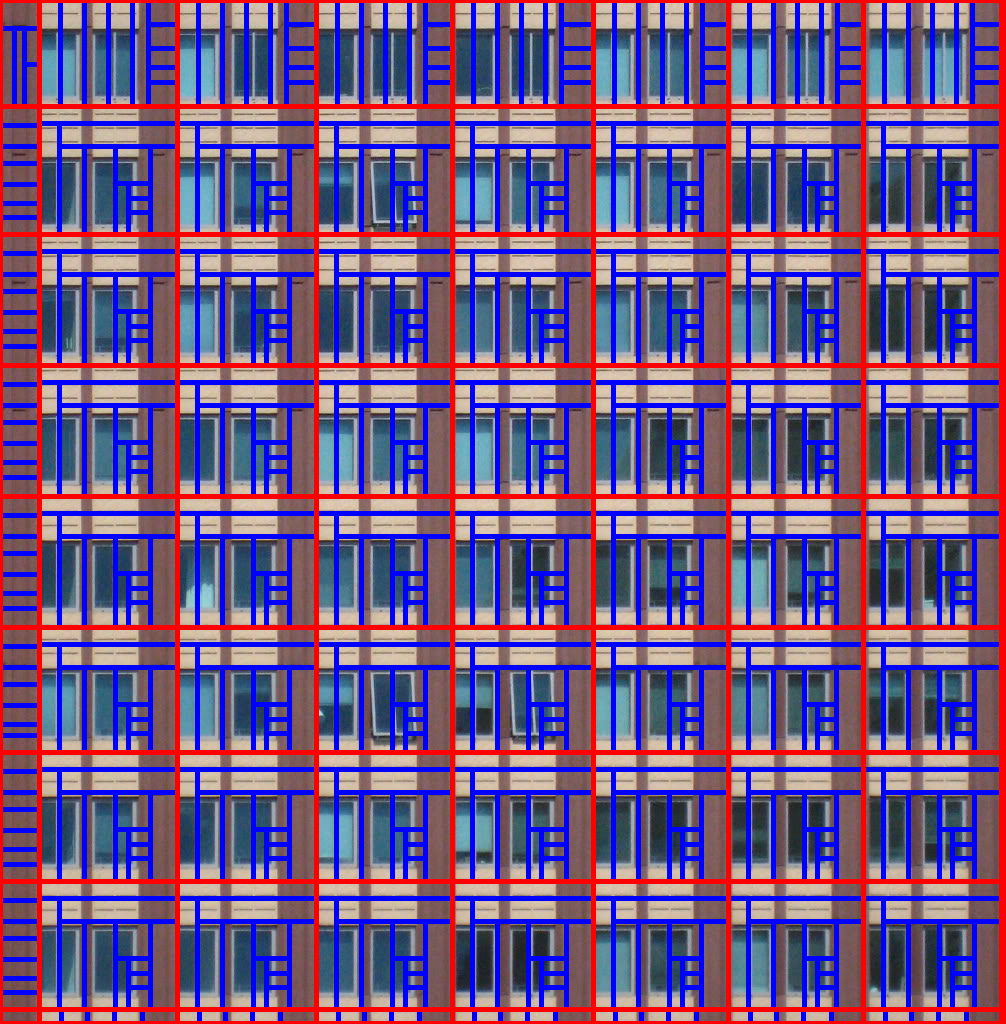
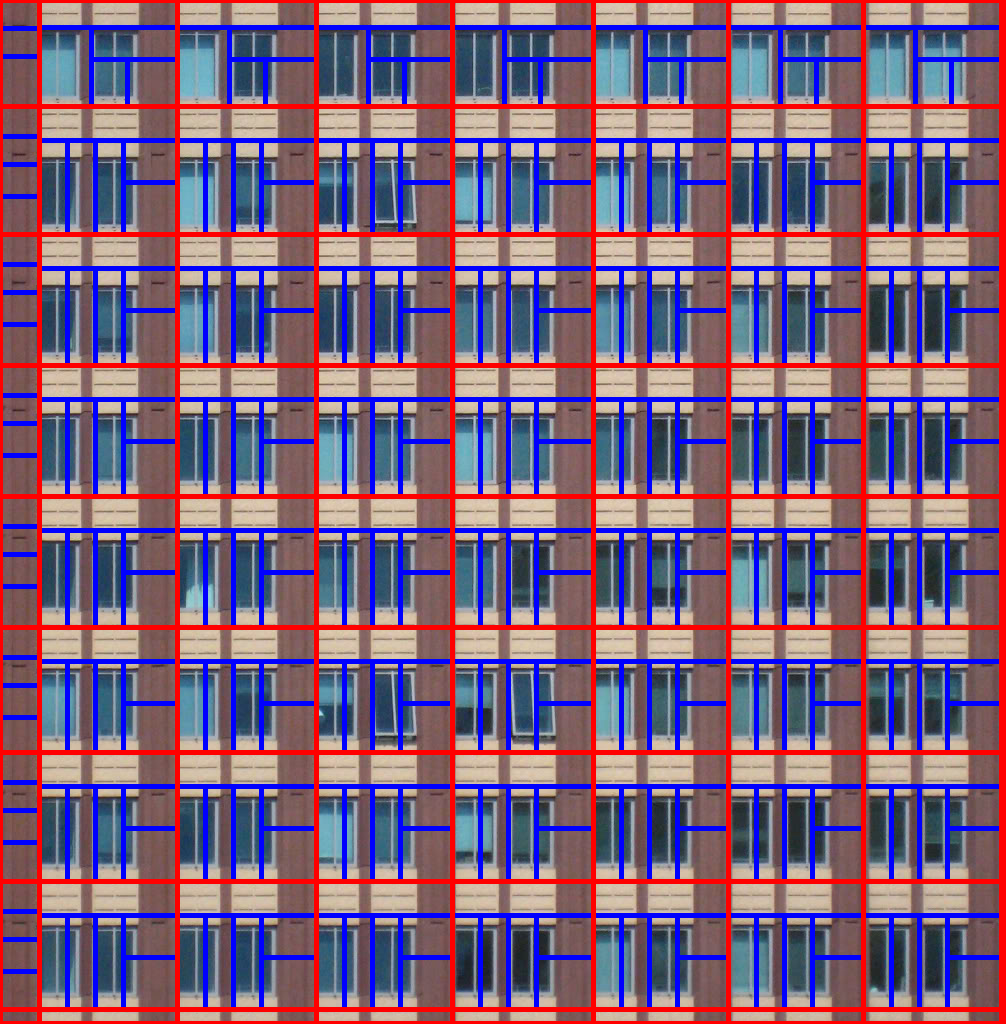
update Test5

Changed region(s): [[0.0, 0.0, 1.0, 1.0]]

diff --git a/Test5/main.cpp b/Test5/main.cpp
@@ -994,7 +994,7 @@ bool subdivideFacadeTilesByOneStep(cv::Mat& img, vector<vector<int>>& y_set, vec
 
 					cv::Mat tile(img, cv::Rect(u1, v1, u2 - u1 - 1, v2 - v1 - 1));
 					int dir, type, dist;
-					if (subdivideTile(tile, dir, type, dist, max(x2 - x1, y2 - y1) * 0.1)) {
+					if (subdivideTile(tile, dir, type, dist, max(x2 - x1, y2 - y1) * 0.2)) {
 						votes[i][k].push_back(Subdivision(dir, type, dist));
 					}
 				}
